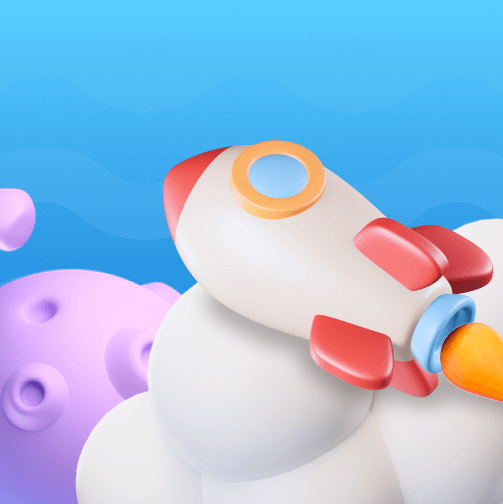
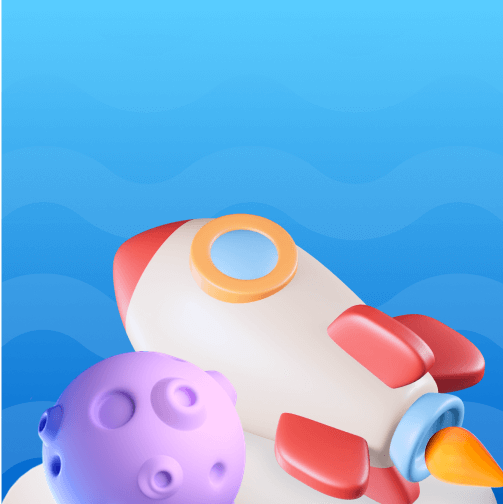
feat: [INT-135] 更換遊戲圖 & 新增 axios

diff --git a/app/routes/_index.tsx b/app/routes/_index.tsx
@@ -77,7 +77,7 @@ export default function Index() {
                 className="relative flex aspect-[343/140] justify-between"
               >
                 <div className="absolute inset-y-3 left-4 flex w-[43%] flex-col justify-center break-words">
-                  <h1 className="font-ultra text-2xl">{slide.title}</h1>
+                  <h1 className="text-2xl font-ultra">{slide.title}</h1>
                   <p className="mt-1 text-xs font-normal text-primary">{slide.content}</p>
                 </div>
                 <img
@@ -103,7 +103,7 @@ export default function Index() {
         </div>
         {/* 343 / 344 */}
         <div className="my-6 flex aspect-[343/344] w-full flex-row space-x-2">
-          <div className="font-ultra flex flex-1 flex-col space-y-2 text-lg">
+          <div className="flex flex-1 flex-col space-y-2 text-lg font-ultra">
             <div className="relative flex-1 overflow-hidden rounded-2xl">
               <p className="absolute inset-x-3 top-[14px]">GO DOWN 100 FLOORS</p>
               <img
@@ -123,7 +123,7 @@ export default function Index() {
           </div>
           <div className="flex flex-1 flex-col space-y-2">
             <Link to="/smash-egg" className="relative flex-1 rounded-xl bg-colorLinear-orange">
-              <div className="font-ultra absolute inset-3 flex flex-col text-start text-lg">
+              <div className="absolute inset-3 flex flex-col text-start text-lg font-ultra">
                 <span>SMASH EGG</span>
                 <span className="text-sm font-normal">
                   Up to <span className="font-ultra text-primary">1000</span> kokon
@@ -163,7 +163,7 @@ export default function Index() {
                 className="relative flex basis-1/3 overflow-hidden pl-0 text-center"
               >
                 <div className="relative pr-2">
-                  <span className="font-ultra absolute inset-x-0 top-2 mx-auto min-h-8 text-center text-sm">
+                  <span className="absolute inset-x-0 top-2 mx-auto min-h-8 pl-2 pr-4 text-center text-sm font-ultra">
                     {slide.title}
                   </span>
                   <img
